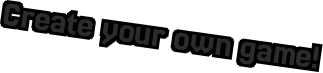
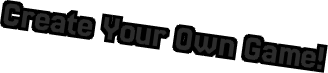
Renamed the project; Fixed typos; Fixed last messages not showing up and updated the README

diff --git a/README.md b/README.md
@@ -1,13 +1,13 @@
 # First Time Godot?
 
-First Time Godot is an interactive tutorial game to learn Godot
+First Time Godot is an interactive tutorial game that helps you learn Godot.
 
 Itch.io: https://nils1024.itch.io/first-time-godot
 
-## How to play?
-1. Select "Create your own game!"
-2. Select the tutorial you wish to play
-3. Follow the instructions
+## How to Play
+1. Select "Create Your Own Game!"
+2. Choose the tutorial you want to play.
+3. Follow the instructions.
 
 ## Screenshots
 ![Main](./.github/Main.png)
@@ -23,5 +23,5 @@ Itch.io: https://nils1024.itch.io/first-time-godot
 3. Add the Web preset
     1. Click "Manage Export Templates"
     2. Click "Download and Install"
-    3. Click Close when it finished downloading
-4. Click Export Project
+    3. Click "Close" once the download has finished
+4. Click "Export Project"
